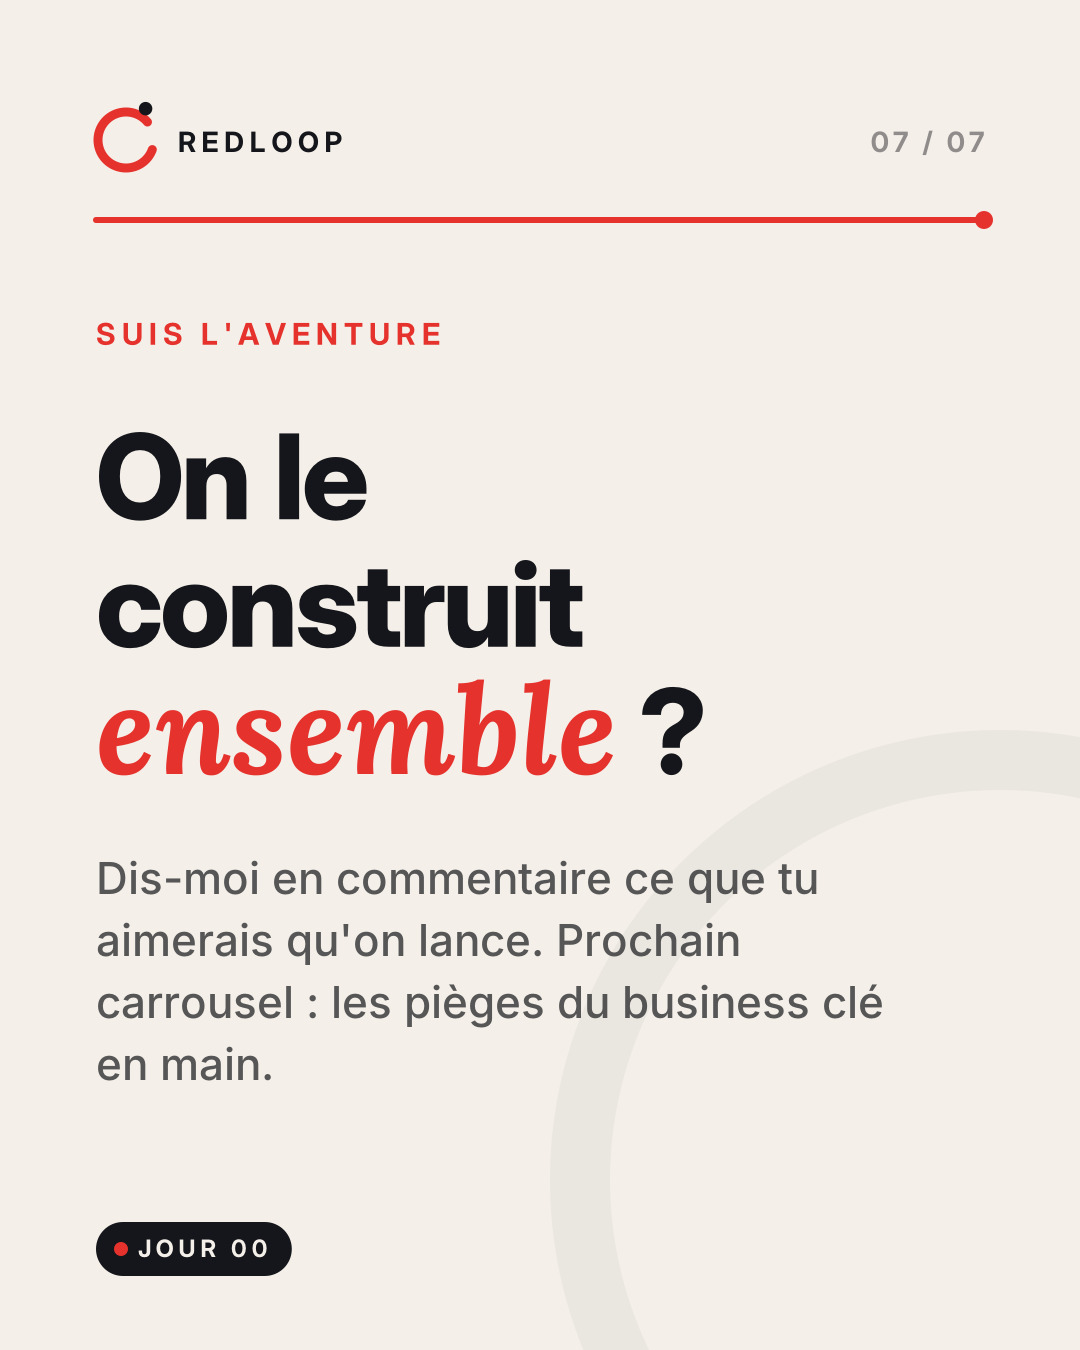
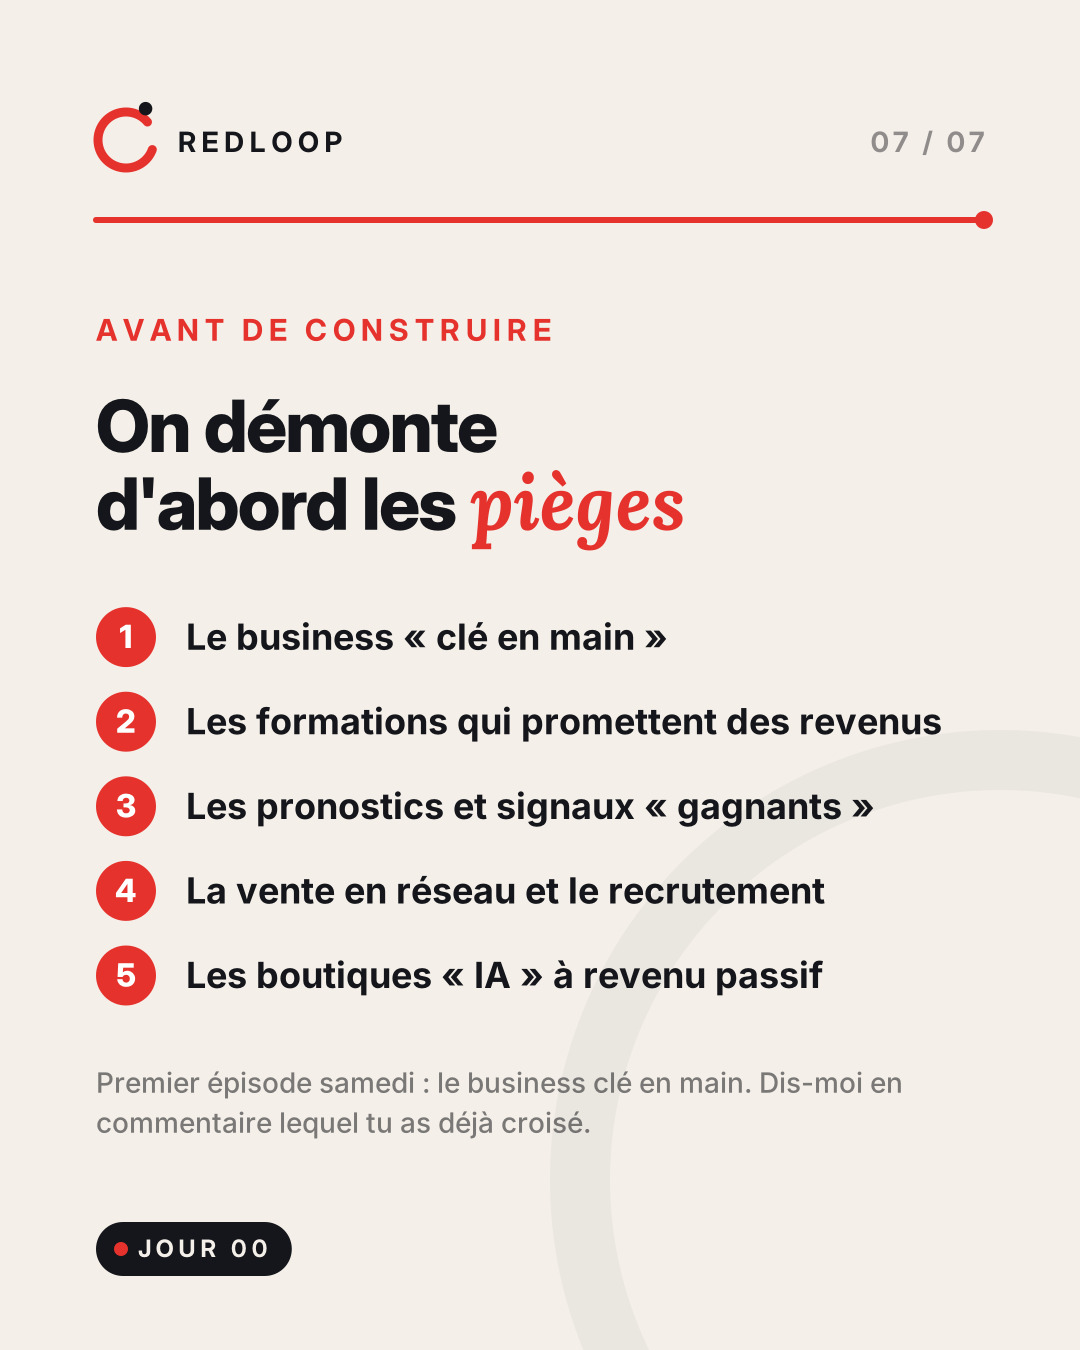
Post 1 last slide: intro to the scam series
Claude-Session: https://claude.ai/code/session_01MjHNHLtyk6pBPoVN5YbS1c

Changed region(s): [[0.0917, 0.2178, 0.8861, 0.84]]

diff --git a/motion/carousel_post1.py b/motion/carousel_post1.py
@@ -7,7 +7,11 @@ POST1 = [
  P("CE QUE TU VERRAS ICI", ["Tout, même", "les *échecs*"], ["Ce qu'on teste, et pourquoi", "Combien ça coûte, combien ça rapporte", "Ce qui marche, et ce qui rate", "Les décisions qu'on prend avec toi"]),
  T("LA MÉTHODE", ["Le trafic d'abord.", "Le produit", "*ensuite.*"], "Pas de formation à vendre. Pas de business clé en main. On construit l'audience, puis on crée ce qu'elle demande."),
  T("POINT DE DÉPART", ["Jour *zéro.*"], "0 abonné. 0 produit. 0 €. On commence par démonter les fausses promesses.", 140),
- T("SUIS L'AVENTURE", ["On le", "construit", "*ensemble ?*"], "Dis-moi en commentaire ce que tu aimerais qu'on lance. Prochain carrousel : les pièges du business clé en main."),
+ P("AVANT DE CONSTRUIRE", ["On démonte", "d'abord les *pièges*"],
+   ["Le business « clé en main »", "Les formations qui promettent des revenus",
+    "Les pronostics et signaux « gagnants »", "La vente en réseau et le recrutement",
+    "Les boutiques « IA » à revenu passif"],
+   "Premier épisode samedi : le business clé en main. Dis-moi en commentaire lequel tu as déjà croisé."),
 ]
 if __name__ == "__main__":
     render("post1", POST1, 0, "/home/claude/motion/out/p1", "/home/claude/redloop-visualx/posts")
